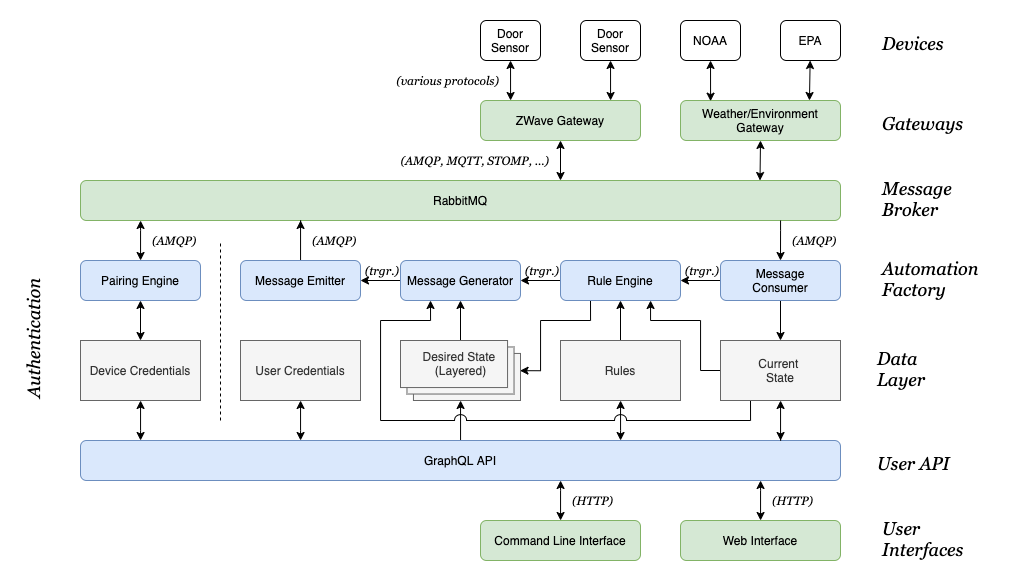
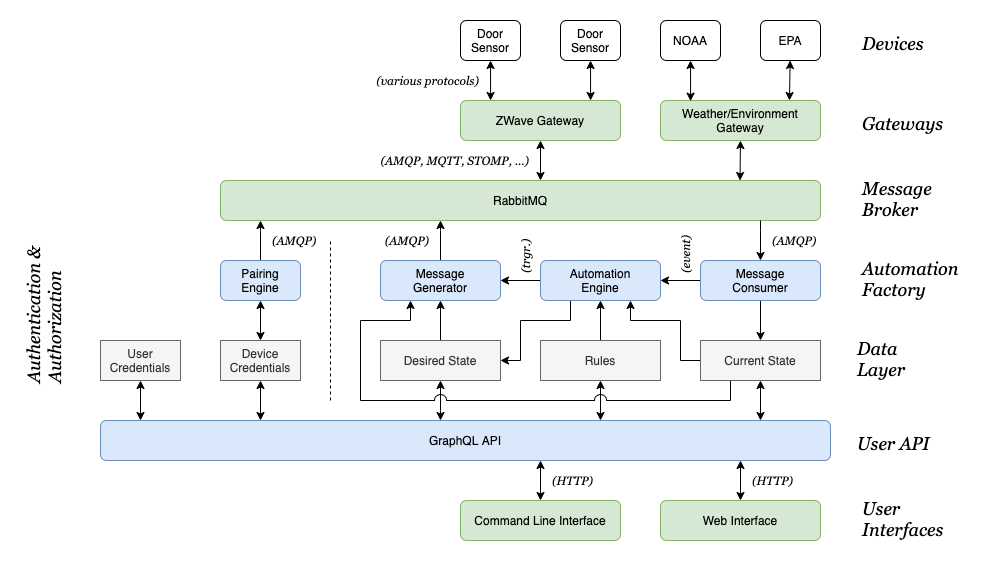
update rules, again

Changed region(s): [[0.0303, 0.03, 0.9687, 0.9611], [0.666, 0.03, 0.7265, 0.1201], [0.8476, 0.0601, 0.9384, 0.0901]]

diff --git a/docs/0-general-requirements-and-architecture.md b/docs/0-general-requirements-and-architecture.md
@@ -65,30 +65,13 @@ The _core_ may have internal _devices_ (not shown). These may include things suc
 
 A data structure that stores the current states of _devices_.
 
-### Layers of Desired State
+### Desired State
 
-A layered data structure that stores the desired states of _devices_ and in which the attributes in each layer override the same attributes in layers below.
-
-0. **Emergency:** this layer has absolute highest priority
-    - fire alarm; entry alarm; natural disaster; water leak
-1. **Critical:** contains critical overrides
-    - if it's raining, the windows should be closed
-2. **Temporary:** contains temporary, non critical state overrides 
-    - watching a movie
-3. **Base:** contains the normal priority state layers which are set by conditions such as
-    - day/night; presence/absence
-4. **Default:** contains safe defaults for all devices
-    - lighting off; temperature above freezing; windows closed
-
-Consideration needs to be given to the handling of manual changes to Desired State. For example, what should happen if someone turns on a light using a switch? Obviously, the light would come on and the associated _gateway_ would send a message to the core updating the current state of that light, but how do we determine when that light should turn off? Should it never turn off? Probably not. Should it turn off the next time its state would normally be set? Is there a particular layer of Desired State in which manual changes should be applied? In extreme cases such as a burglar alarm, should we contradict manual changes such as by turning lights back on immediately after they are turned off? 
+_NOTE: I am actively redesigning the structure of desired state. The primary issue with the previous "layered state" is that it doesn't handle manual overrides (e.g. turning on a light switch) very well. 
 
 ### Rules
 
 Rules are used to determine what the Desired State should be based on the Current State. 
-
-### Automation Factory
-
-Using rules, the Automation Factory will set the layers of Desired State based on the current State. 
 
 ## Automation Data Flow
 
@@ -96,11 +79,11 @@ Using rules, the Automation Factory will set the layers of Desired State based o
     - "it is now raining"
 2. The _gateway_ sends a message containing the _device_ state change to the _message broker_.
 3. The _core_ receives the message from the _message broker_. 
-3. The Device API updates the Current State data structure.
-4. The Automation Engine applies rules based on the new Current State and updates the appropriate layers of Desired State.
-5. The _core_ sends messages to the _message broker_ addressed to the appropriate _gateways_ requesting that they change the state of one or more of their _devices_.
+4. The Message Consumer updates the Current State data structure and passage the event to the Automation Engine Engine.
+5. The Automation Engine executes Rules and updates the Desired State.
+6. The Message Generator compares Desired State to Current State and sends messages to the _message broker_ addressed to the appropriate _gateways_ requesting that they change the state of one or more of their _devices_.
     - "close windows, turn off irrigation"
-6. The _gateways_ send messages to the _message broker_ when their _device_ states change.
+7. The _gateways_ send messages to the _message broker_ when their _device_ states change.
     - "windows are closed, irrigation is off"
 
-There is a potential for infinite loops of the above and measures should be taken in the Automation Engine to prevent such loops. 
+There is a potential for infinite loops of the above and measures should be taken in the Automation Factory to prevent such loops. 
